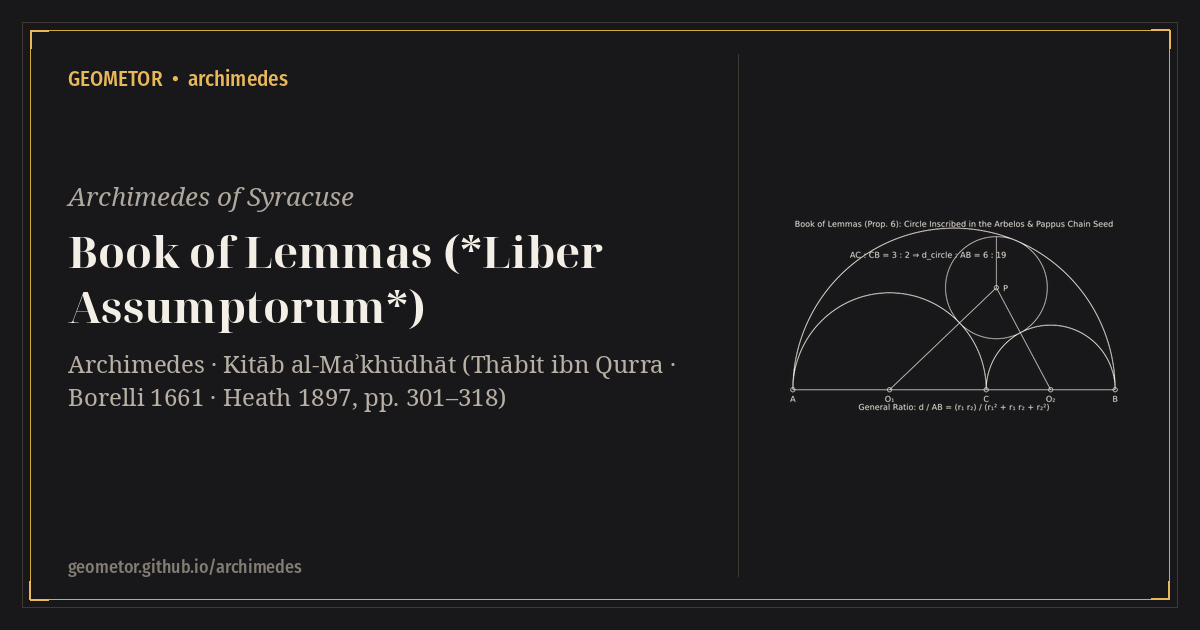
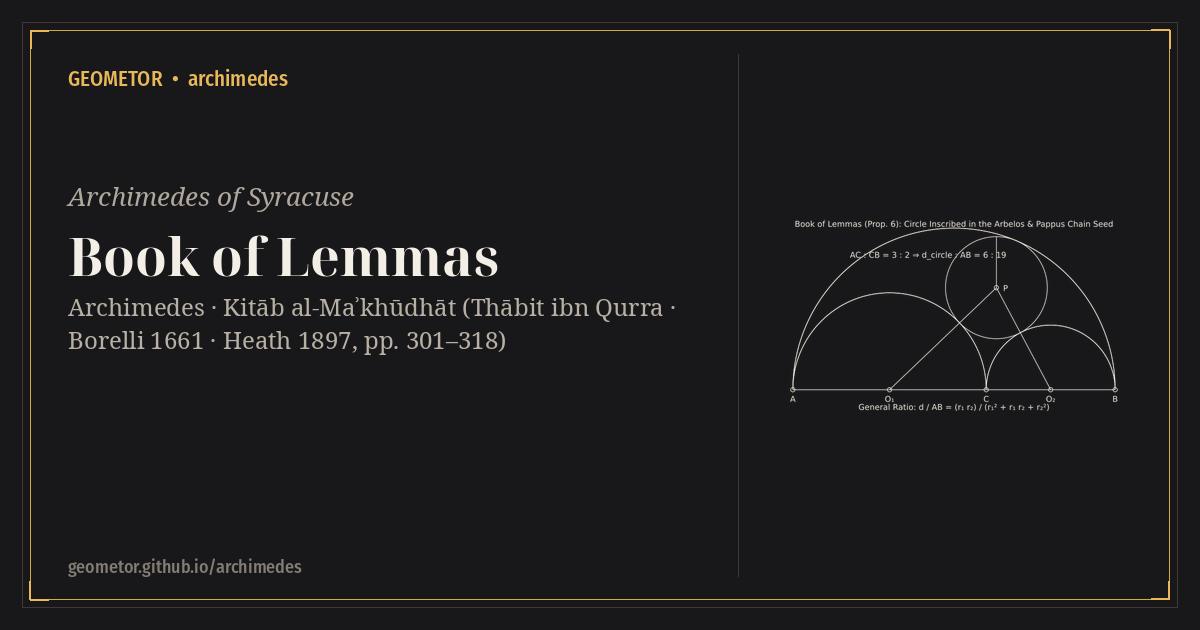
docs: add construction hero images, elevate English titles with native title tracks, and standardize track menus

Changed region(s): [[0.0617, 0.3619, 0.555, 0.6635]]

diff --git a/README.rst b/README.rst
@@ -3,7 +3,12 @@ GEOMETOR • archimedes
 
 **Visit the Online Archive:** https://geometor.github.io/archimedes/
 
-**Archimedes of Syracuse • Circle, Parabola, Equilibrium, Sphere & Spirals, Lemmas, Arenarius, The Method • semantic digital archive**
+.. image:: docsrc/_static/figures/fig_archimedean_spiral.svg
+   :alt: GEOMETOR • archimedes featured geometric construction
+   :target: https://geometor.github.io/archimedes/
+   :align: center
+
+**Archimedes of Syracuse • Circle, Parabola, Equilibrium, Sphere & Spirals, Lemmas, The Sand-Reckoner, The Method • semantic digital archive**
 
 Mission
 -------
@@ -17,7 +22,7 @@ Books in This Archive
 - **`Quadrature of the Parabola <https://geometor.github.io/archimedes/quadrature_of_the_parabola/>`_** — Mechanical balance exhaustion and geometric geometric-series summation proving parabolic segment quadrature.
 - **`On the Equilibrium of Planes <https://geometor.github.io/archimedes/equilibrium_of_planes/>`_** — Foundations of theoretical statics, the law of the lever, and centers of gravity of plane figures.
 - **`Sphere and Cylinder, Spirals & Conoids <https://geometor.github.io/archimedes/sphere_and_spirals/>`_** — Surface area and volume of the sphere, kinematics and tangents of spirals, and cubatures of quadrics of revolution.
-- **`Book of Lemmas (*Liber Assumptorum*) <https://geometor.github.io/archimedes/book_of_lemmas/>`_** — Fifteen classical planar lemmas preserved by Thābit ibn Qurra, including the Arbelos, Salinon, and Archimedes' Twin Circles.
+- **`Book of Lemmas <https://geometor.github.io/archimedes/book_of_lemmas/>`_** — Fifteen classical planar lemmas preserved by Thābit ibn Qurra, including the Arbelos, Salinon, and Archimedes' Twin Circles.
 - **`The Sand-Reckoner & Semi-Regular Solids <https://geometor.github.io/archimedes/arenarius/>`_** — Structural register of the 13 Archimedean polyhedra, the Cattle Problem, and the cosmic order of numbers.
 - **`The Method of Mechanical Theorems <https://geometor.github.io/archimedes/the_method/>`_** — Archimedes' heuristic palimpsest to Eratosthenes demonstrating infinitesimal mechanical slice discovery.
 

diff --git a/docsrc/book_of_lemmas/index.rst b/docsrc/book_of_lemmas/index.rst
@@ -4,7 +4,7 @@
 :nav_title: Lemmas
 :breadcrumb_title: Book of Lemmas
 :layout: book
-:book_title: Book of Lemmas (*Liber Assumptorum*)
+:book_title: Book of Lemmas
 :book_subtitle: Archimedes · Kitāb al-Maʾkhūdhāt (Thābit ibn Qurra · Borelli 1661 · Heath 1897, pp. 301–318)
 :author: Archimedes of Syracuse
 :year: c. 250 BCE / 1897
